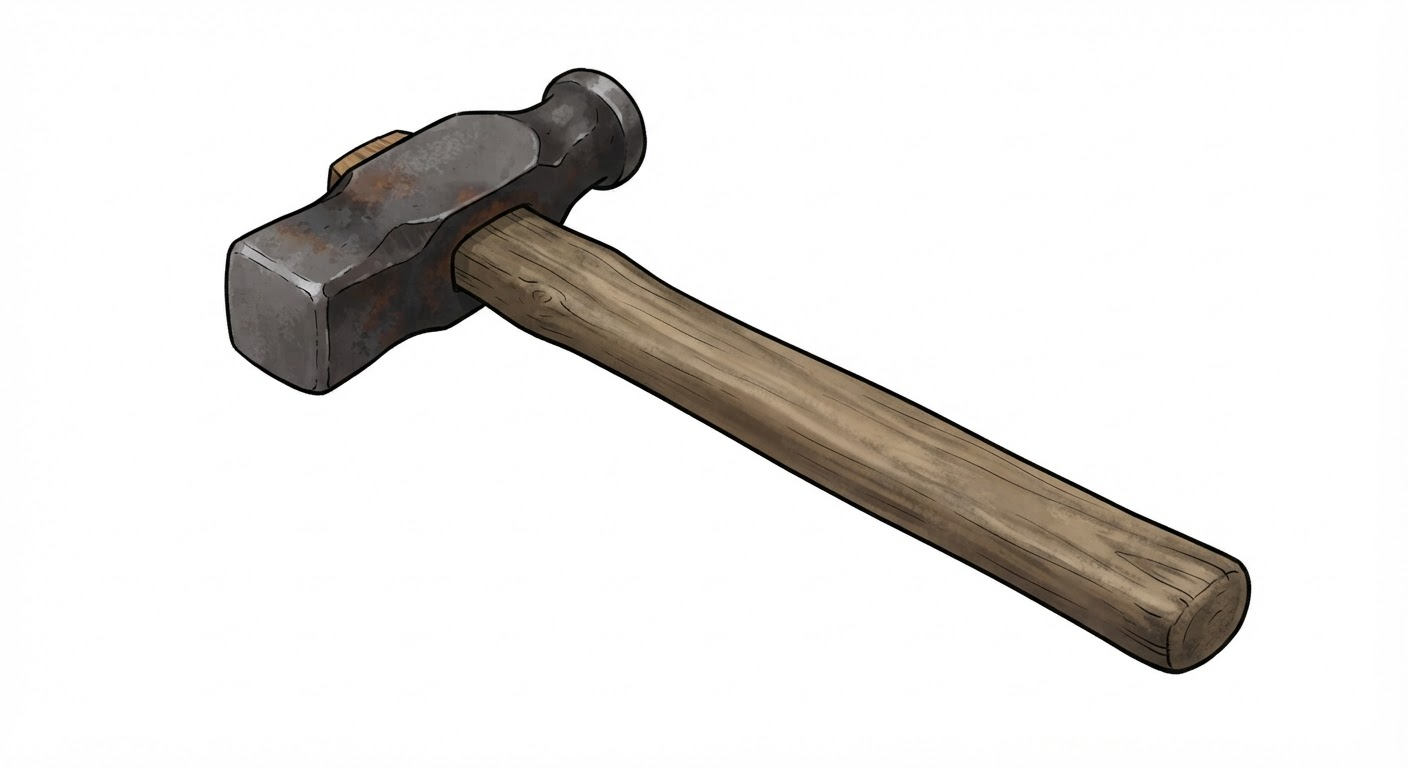
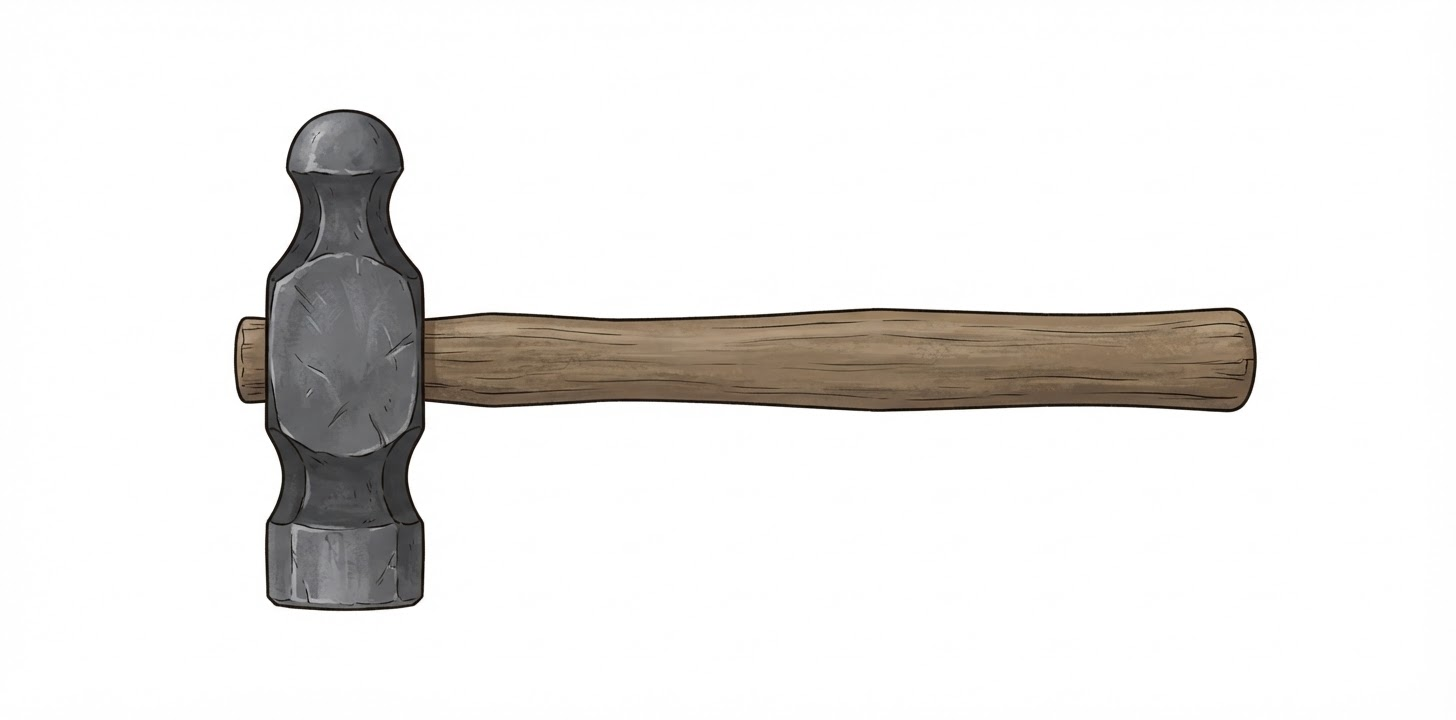
Hämmer in reiner Seitenansicht: Bahn liegt beim Schlag flach auf
Neue Hammergrafiken des Auftraggebers (Seitenansicht) für alle vier Hämmer,
im Laden und über dem Amboss; alte Schrägansichten entfernt.

Claude-Session: https://claude.ai/code/session_018Wr6RPb66e2MzTGSvrNuG4

Changed region(s): [[0.1562, 0.0917, 0.9062, 0.8861]]

diff --git a/tools/art/import_user_art.py b/tools/art/import_user_art.py
@@ -173,13 +173,15 @@ def main():
         img = Image.fromarray(arr)
         img = img.crop(img.getbbox())
         save(img.resize((int(img.width * 0.8), int(img.height * 0.8)), Image.LANCZOS), name + ".png")
-    # 14/15 Hämmer (weiß): Gusseisen-Kreuzschlag → Kreuzschlaghammer, polierter Stahl → Tiegelstahl
-    for src, name in [("hammer_cast_iron.webp", "hammer_cross_peen.png"), ("hammer_polished_steel.webp", "hammer_crucible.png"),
-                      ("hammer_hand.jpg", "hammer_hand.png"), ("hammer_steel_faced.jpg", "hammer_steel_faced.png")]:
-        a = load(src)
+    # 14 Hämmer in reiner Seitenansicht (Kopf links senkrecht, Bahn unten, Stiel waagerecht nach rechts)
+    for hid in ["hammer_hand", "hammer_cross_peen", "hammer_steel_faced", "hammer_crucible"]:
+        path = os.path.join(SRC, hid + ".jpg")
+        if not os.path.exists(path):
+            continue
+        a = load(hid + ".jpg")
         sat = a.max(axis=2) - a.min(axis=2)
         img = to_rgba(a, flood_bg((a.min(axis=2) > 222) & (sat < 20)).astype(np.float32))
-        save(img, name, max_w=360)
+        save(img, hid + ".png", max_w=360)
     # 16 Wasser-Schwanzhammer (weiß) als Bild im Laden
     a = load("water_helve.webp")
     sat = a.max(axis=2) - a.min(axis=2)
